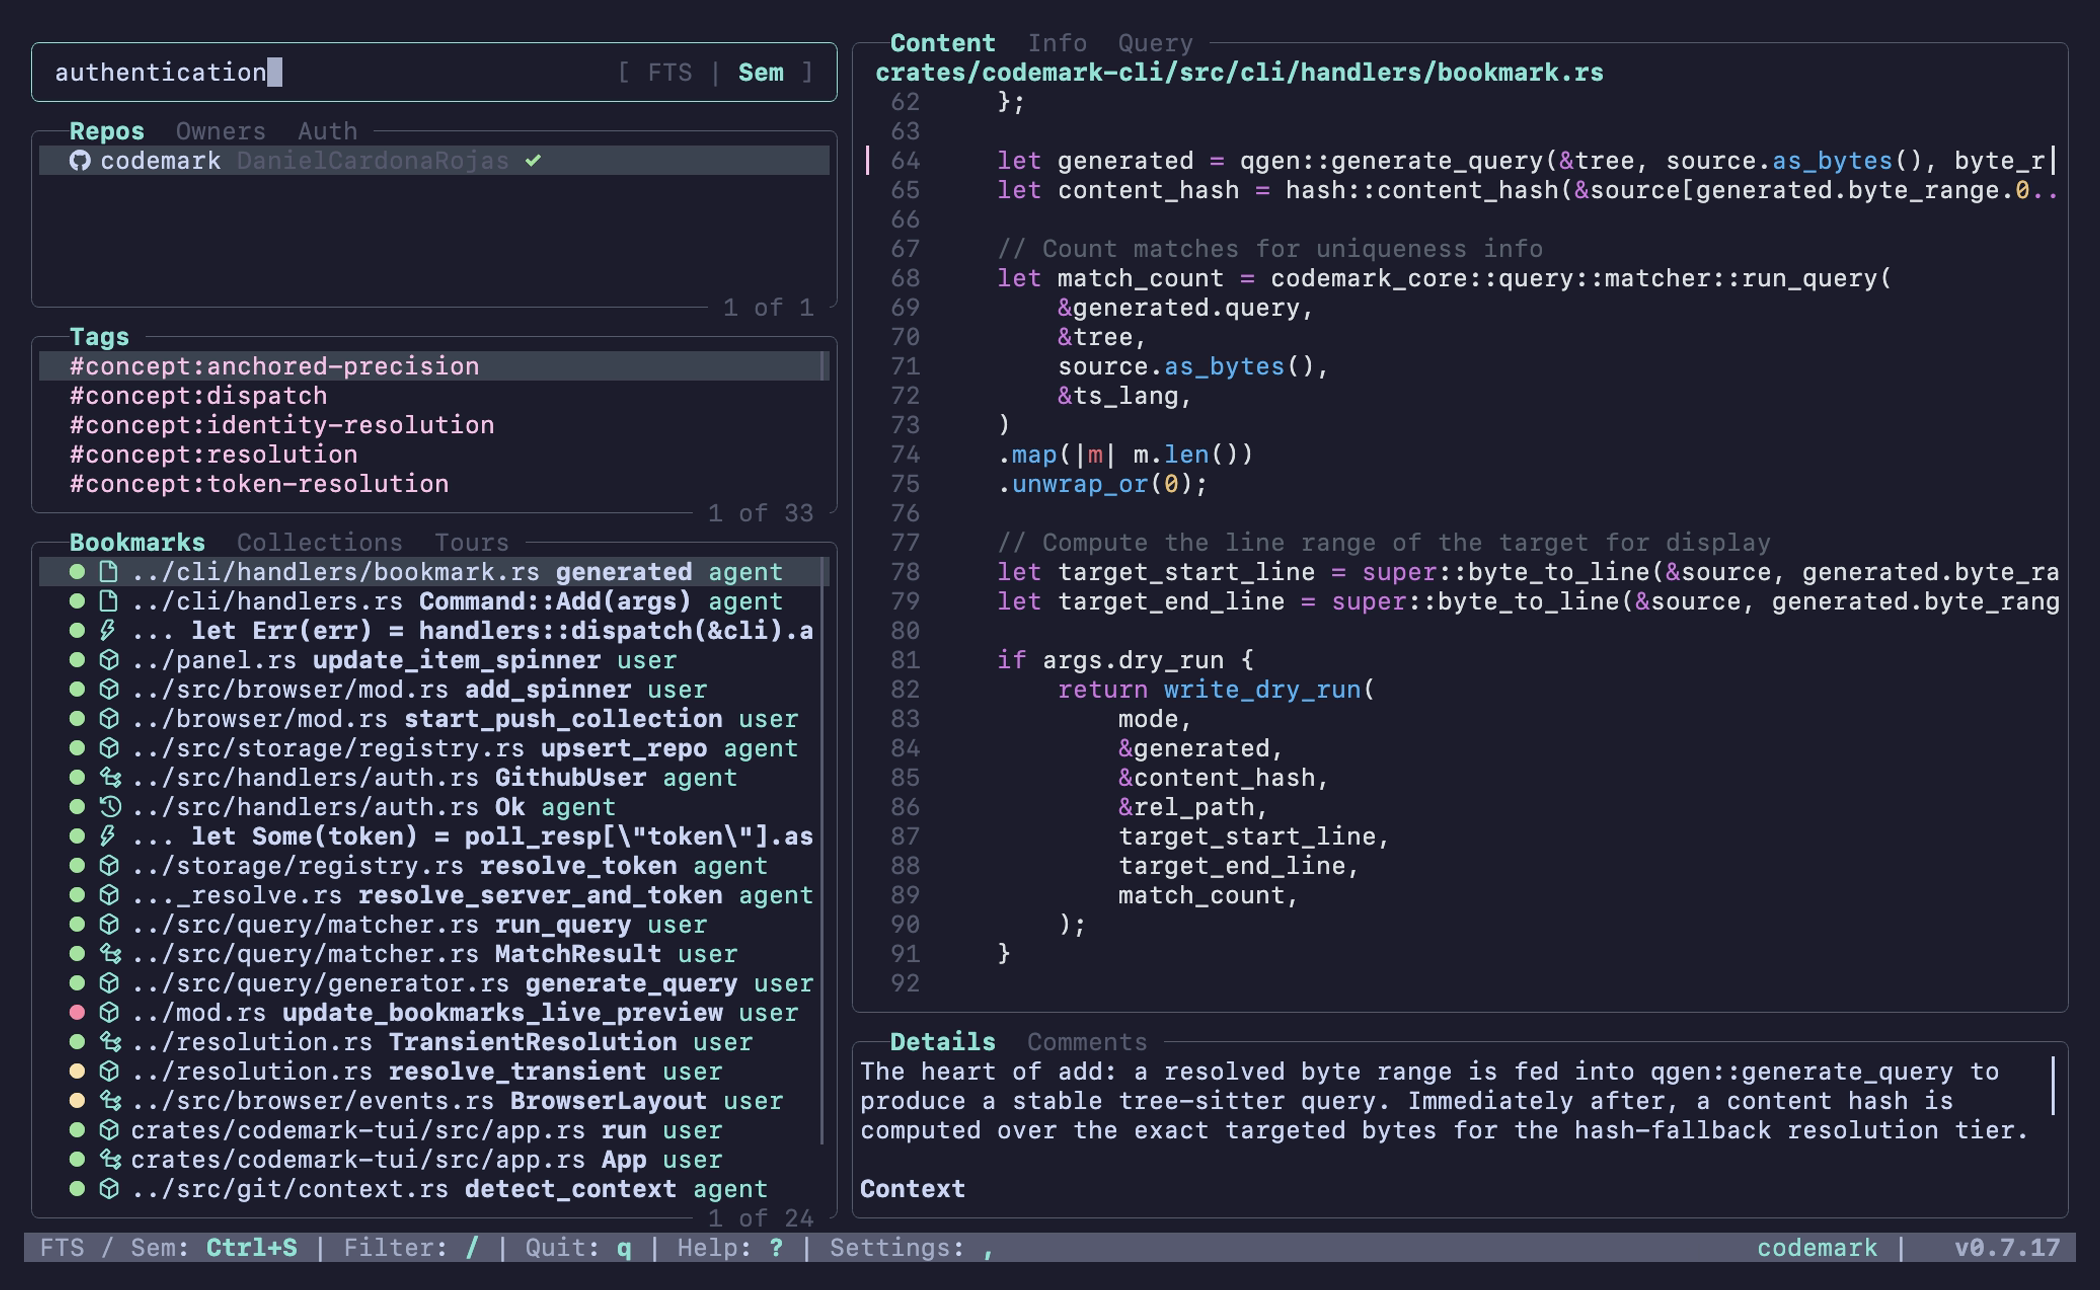
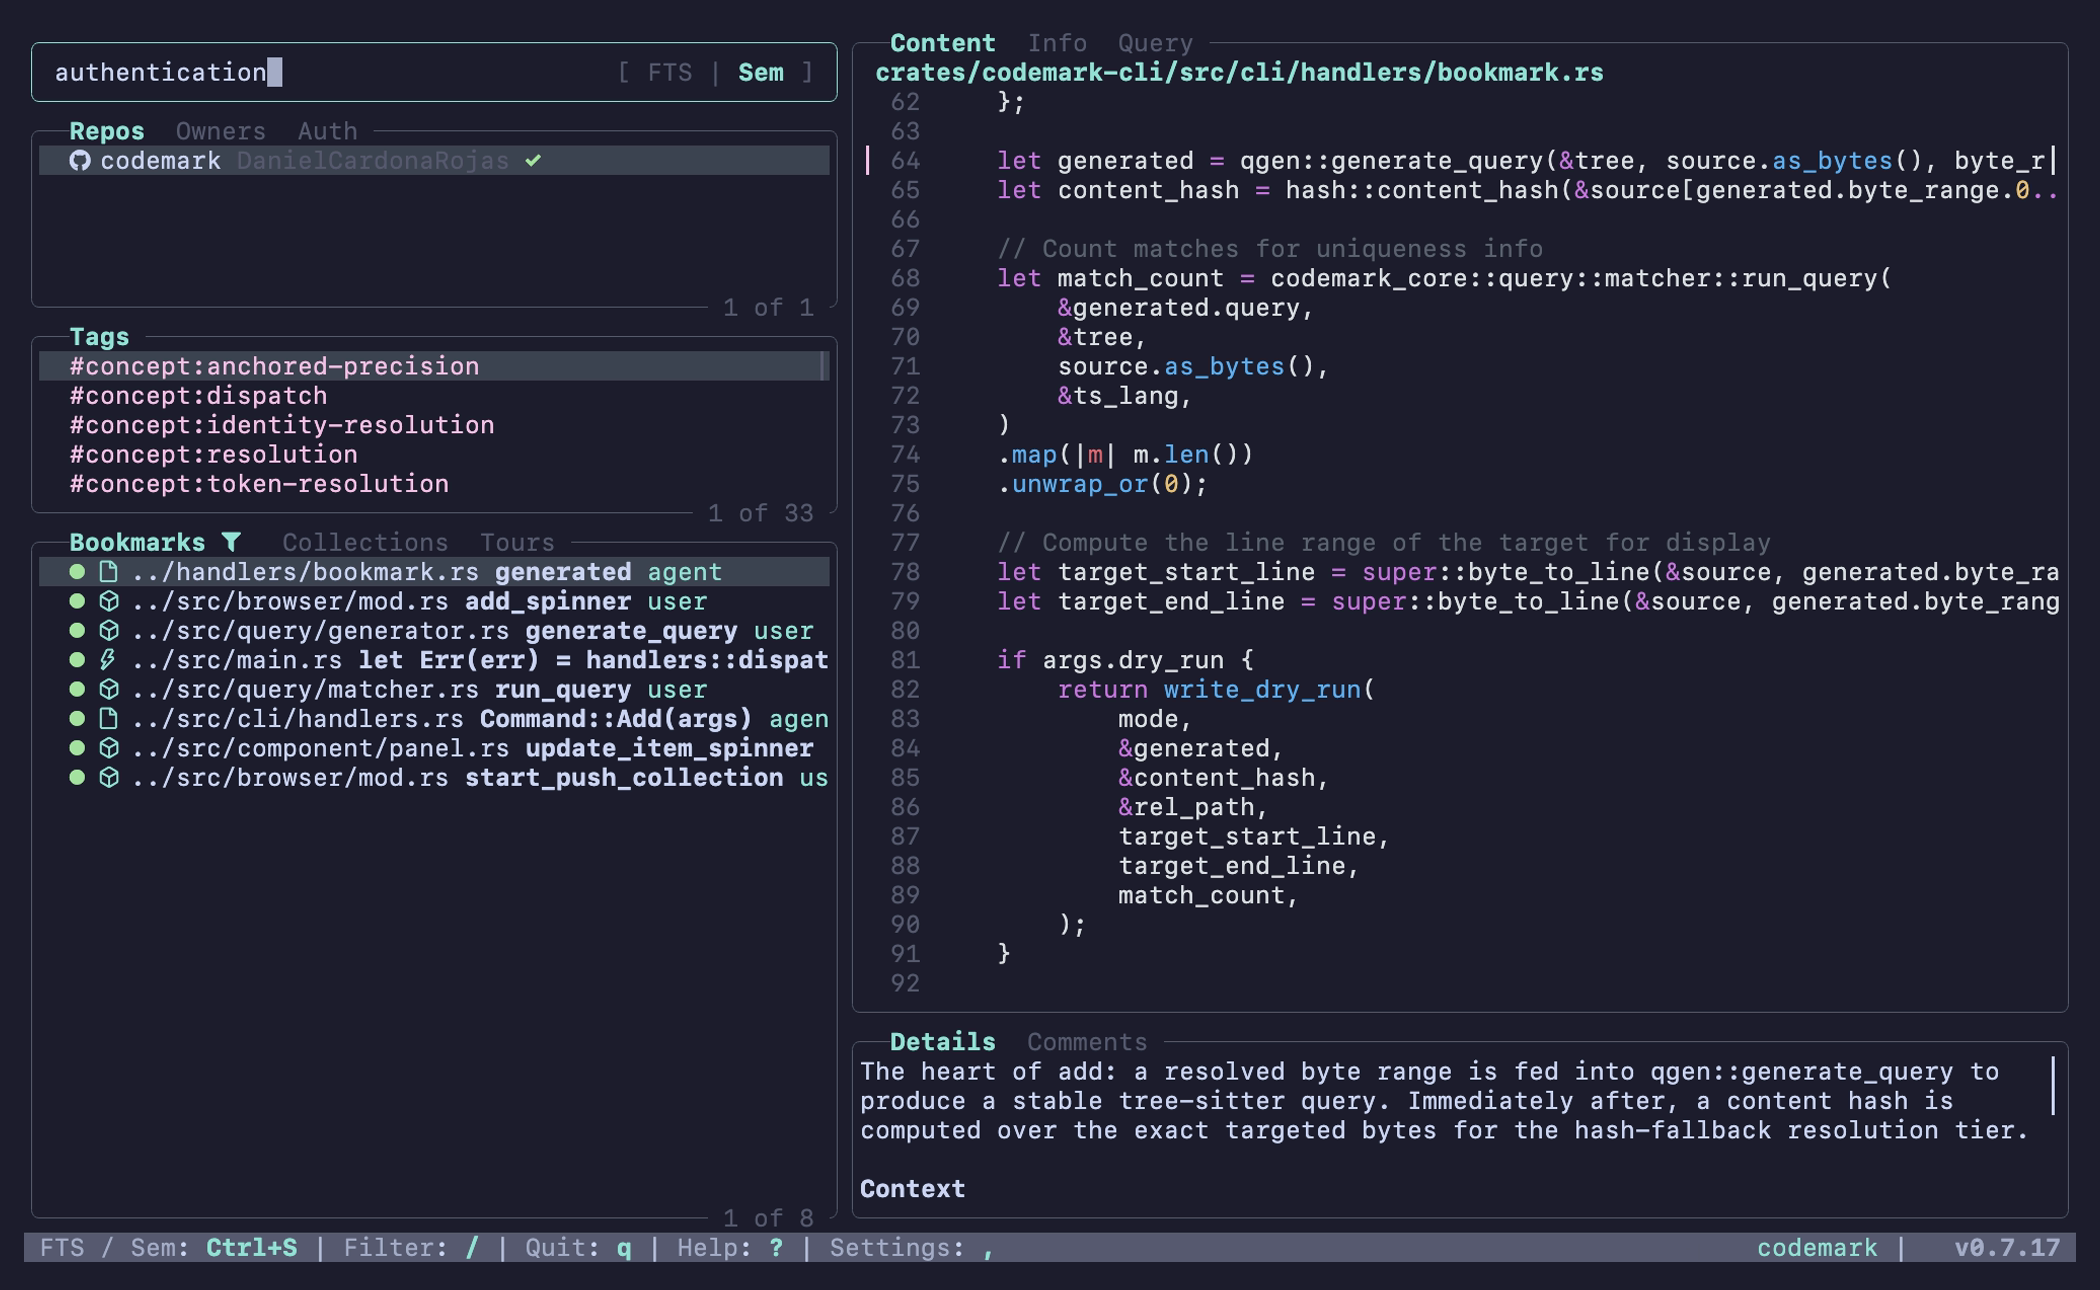
Fix search demo interaction; add pane-filtering demo
Correct the search tapes: search runs on Enter (not live), semantic
mode needs extra wait time, and queries are cleared with double Esc.

Add a separate filtering demo (filter.tape + filter-thumb.tape) that
shows `/` narrowing the focused pane's list live — distinct from
search — wired into capture.sh, the gallery doc, and the README
thumbnail row.

Changed region(s): [[0.031, 0.4031, 0.4024, 0.9612]]

diff --git a/dev-docs/guides/demo-gallery.md b/dev-docs/guides/demo-gallery.md
@@ -31,9 +31,22 @@ as you move through it with `j` / `k`.
 
 ## Search — full-text & semantic
 
-Press `s` to focus the search bar and start typing — results filter live. Toggle
-between **FTS** (SQLite full-text, exact terms) and **Semantic** (local vector
-embeddings, by meaning — no API key) with `Ctrl+S`. Semantic mode answers
-intent-style queries like *"where do we resolve a bookmark after the code moves"*.
+Press `s` to focus the search bar, type a query, and press `Enter` to run it.
+Toggle between **FTS** (SQLite full-text, exact terms) and **Semantic** (local
+vector embeddings, by meaning — no API key) with `Ctrl+S`. Semantic mode answers
+intent-style queries like *"where do we resolve a bookmark after the code moves"*
+(it's slower, so it shows a brief loading spinner). Clear a search with double
+`Esc`.
 
 ![Codemark TUI full-text and semantic search](../../screenshots/images/codemark_tui_search.gif)
+
+---
+
+## Filtering pane contents
+
+Distinct from search: press `/` to filter the **focused pane's** visible list,
+narrowing it live as you type (no `Enter` needed). Filters are pane-scoped — the
+Bookmarks pane and the Tags pane each keep their own — and `Esc` clears the
+active filter.
+
+![Codemark TUI pane filtering](../../screenshots/images/codemark_tui_filter.gif)

diff --git a/screenshots/README.md b/screenshots/README.md
@@ -32,6 +32,8 @@ or via the workflow) whenever the knowledge base changes enough to matter.
 | `settings-thumb.tape` | `codemark_tui_settings_thumb.png` | Static thumbnail (Theme tab) — the poster for the Settings demo in the [demo gallery](../dev-docs/guides/demo-gallery.md) |
 | `search.tape` | `codemark_tui_search.gif` | Animated tour of search: focus with `s`, type a query, toggle FTS/Semantic with `Ctrl+S` |
 | `search-thumb.tape` | `codemark_tui_search_thumb.png` | Static thumbnail (Semantic results) — the poster for the search demo in the [demo gallery](../dev-docs/guides/demo-gallery.md) |
+| `filter.tape` | `codemark_tui_filter.gif` | Animated tour of pane filtering: `/` narrows the focused pane's list live (Bookmarks, then Tags) |
+| `filter-thumb.tape` | `codemark_tui_filter_thumb.png` | Static thumbnail (filtered Bookmarks pane) — the poster for the filter demo in the [demo gallery](../dev-docs/guides/demo-gallery.md) |
 | `theme.tape` | `codemark_tui_theme_<slug>.png` | Main view, once per color scheme |
 
 The demo GIF is the README's lead visual. It's recorded at full TUI resolution

diff --git a/README.md b/README.md
@@ -116,6 +116,12 @@ codemark tui
         <br><sub><b>FTS &amp; semantic search</b></sub>
       </a>
     </td>
+    <td align="center" width="240">
+      <a href="./dev-docs/guides/demo-gallery.md#filtering-pane-contents">
+        <img src="./screenshots/images/codemark_tui_filter_thumb.png" width="220" alt="Pane filtering demo">
+        <br><sub><b>Filter pane contents</b></sub>
+      </a>
+    </td>
   </tr>
 </table>
 
